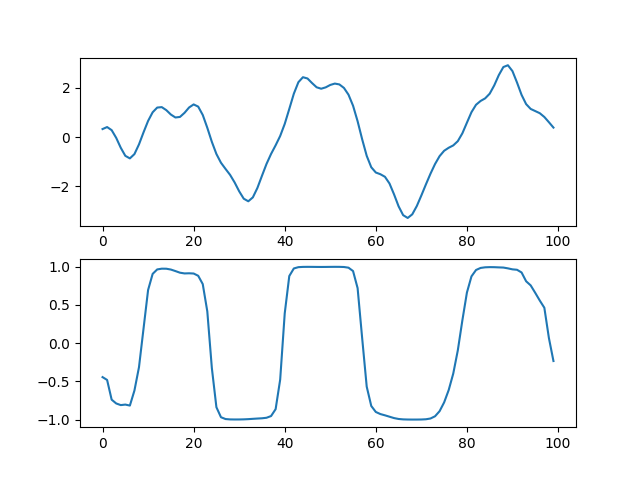
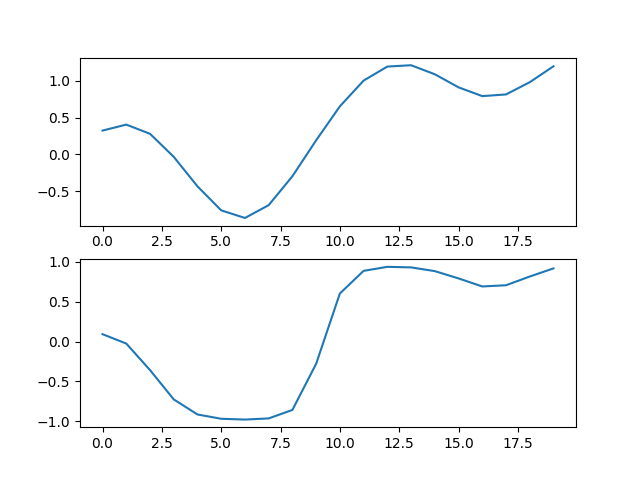
update multi epochs

diff --git a/train_signal_vqvae.py b/train_signal_vqvae.py
@@ -7,9 +7,10 @@ from vis import vis
 
 # parameters
 device="cuda"
-batch_size = 256
+batch_size = 1024
 LR = 1e-3
-patch_size = 100
+patch_size = 20
+epochs = 10
 
 # Load Data
 X_train = torch.load("data/X_train.pt", weights_only=True).to(device)[:, :, :, :1000]
@@ -27,7 +28,9 @@ signal_test_loader = DataLoader(signal_test_set, batch_size=batch_size, shuffle=
 
 model = SignalVectorQuantizedVAE(patch_size=patch_size).to(device)
 opt = torch.optim.Adam(model.parameters(), lr=LR, amsgrad=True)
-train(model, signal_train_loader, opt, device)
+for epoch in range(epochs):
+    print("start training epoch", str(epoch))
+    train(model, signal_train_loader, opt, device)
 test(model, signal_test_loader, device)
 torch.save(model.state_dict(), "signal-vqvae.pth")
 
